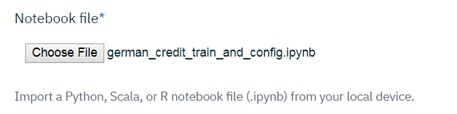
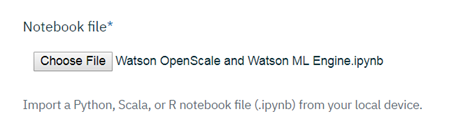
Updates to match staging

Changed region(s): [[0.0308, 0.7105, 0.9251, 0.9211], [0.0308, 0.3684, 0.8634, 0.5526], [0.0308, 0.1053, 0.2467, 0.2368]]

diff --git a/tutorial-adv.md b/tutorial-adv.md
@@ -2,7 +2,7 @@
 
 copyright:
   years: 2018, 2019
-lastupdated: "2019-02-07"
+lastupdated: "2019-02-18"
 
 ---
 
@@ -117,12 +117,12 @@ Login to your [{{site.data.keyword.Bluemix_notm}} account](https://console.bluem
 ## Create and deploy a machine learning model
 {: #crt-make-model}
 
-### Add the `German Credit Lab - OpenScale Lab instructions` notebook to your Watson Studio project
+### Add the `Watson OpenScale and Watson ML engine` notebook to your Watson Studio project
 {: #crt-add-notebook}
 
 - Download the following file:
 
-    - [German Credit Lab - OpenScale Lab instructions](https://github.com/emartensibm/german-credit/blob/master/german_credit_lab.ipynb)
+    - [Watson OpenScale and Watson ML engine](https://github.com/pmservice/ai-openscale-tutorials/blob/master/notebooks/Watson%20OpenScale%20and%20Watson%20ML%20Engine.ipynb)
 
 - From the **Assets** tab in your Watson Studio project, click the **Add to project** button and select **Notebook** from the dropdown:
 
@@ -132,7 +132,7 @@ Login to your [{{site.data.keyword.Bluemix_notm}} account](https://console.bluem
 
   ![New Notebook Form](images/new_notebook_name.png)
 
-- Then click the **Choose file** button, and select the "German Credit Risk - model" that you downloaded:
+- Then click the **Choose file** button, and select the "Watson OpenScale and Watson ML engine.ipynb" notebook file that you downloaded:
 
   ![New Notebook Form](images/new_notebook_name2a.png)
 
@@ -140,19 +140,19 @@ Login to your [{{site.data.keyword.Bluemix_notm}} account](https://console.bluem
 
 - Click **Create Notebook**.
 
-### Edit and run the `German Credit Risk - model` Notebook
+### Edit and run the `Watson OpenScale and Watson ML engine` notebook
 {: #crt-edit-notebook}
 
-The `German Credit Risk - model` notebook contains detailed instructions for each step in the Python code you will run. As you work through the notebook, take some time to understand what each command is doing.
+The `Watson OpenScale and Watson ML engine` notebook contains detailed instructions for each step in the Python code you will run. As you work through the notebook, take some time to understand what each command is doing.
 {: tip}
 
-- From the **Assets** tab in your Watson Studio project, click the **Edit** icon next to the `German Credit Risk - model` notebook to edit it.
+- From the **Assets** tab in your Watson Studio project, click the **Edit** icon next to the `Watson OpenScale and Watson ML engine` notebook to edit it.
 
 - In the "Provision services and configure credentials" section, make the following changes:
 
     - Follow the instructions to create, copy, and paste an {{site.data.keyword.Bluemix_notm}} API key.
 
-    - Replace the Watson Machine Learning (WML), Db2, and Spark service credentials with the ones you created previously.
+    - Replace the Watson Machine Learning (WML) and Db2 service credentials with the ones you created previously.
 
     - If you have an already-existing schema in your Db2 instance that you would like to use for {{site.data.keyword.aios_short}} data, specify it as the SCHEMA_NAME variable. Otherwise, leave the variable set to `None` to use the default Db2 schema.
 
@@ -167,7 +167,7 @@ The `German Credit Risk - model` notebook contains detailed instructions for eac
 
 - Now, run each step of the notebook in sequence. Notice what is happening at each step, as described. Complete all the steps, up through and including the steps in the "Additional data to help debugging" section.
 
-The net result is that you will have created, trained, and deployed the **German Credit Risk Model** to your {{site.data.keyword.aios_short}} service instance. {{site.data.keyword.aios_short}} will be configured to check the model for bias against sex (in this case, Female) or age (In this case, 18-25 years old).
+The net result is that you will have created, trained, and deployed the **German Credit Risk Model** to your {{site.data.keyword.aios_short}} service instance. {{site.data.keyword.aios_short}} will be configured to check the model for bias against sex (in this case, Female) or age (in this case, 18-25 years old).
 
 ## Viewing results
 {: #crt-view-results}

diff --git a/monitor-accuracy.md b/monitor-accuracy.md
@@ -2,7 +2,7 @@
 
 copyright:
   years: 2018, 2019
-lastupdated: "2019-02-07"
+lastupdated: "2019-02-19"
 
 ---
 
@@ -82,6 +82,9 @@ You are now presented with the option to directly provide feedback data to your 
   ![Send feedback data](images/accuracy-send-feedback0.png)
 
 Select the *Add Feedback Data* button to upload a CSV-formatted data file; set the delimiter to match your data.
+
+The feedback CSV file is expected to have all feature values, and the manually assigned target/label value. For example, the drug model training data contains feature values `"AGE"`, `"SEX"`, `"BP"`, `"CHOLESTEROL"`,`"NA"`,`"K"`, and the target/label value `"DRUG"`. The feedback CSV file needs to include values for those fields; an example would look like `[43, M, HIGH, NORMAL, 0.6345, 1.4587, DrugX]`. If a header is provided for the feedback CSV file, then field names are mapped using the header. Otherwise the field order **MUST** be exactly the same as in the training schema.
+{: important}
 
   ![Accuracy delimiter](images/accuracy-delimit.png)
 

diff --git a/addl-rsc.md b/addl-rsc.md
@@ -2,7 +2,7 @@
 
 copyright:
   years: 2018, 2019
-lastupdated: "2019-02-07"
+lastupdated: "2019-02-19"
 
 ---
 
@@ -27,4 +27,5 @@ lastupdated: "2019-02-07"
 The [advanced tutorial](/docs/services/ai-openscale/tutorial-adv.html), which provides a Jupyter notebook to walk you through the process of creating, deploying, and viewing results of a detailed credit risk model scenario in {{site.data.keyword.aios_short}}, is also available as a tutorial for other machine learning service instances:
 
 - [Microsoft Azure ML Studio](https://github.com/pmservice/ai-openscale-tutorials/blob/master/notebooks/AI%20OpenScale%20and%20Azure%20ML%20Studio%20Engine.ipynb)
+- [Amazon SageMaker ML Studio](https://github.com/pmservice/ai-openscale-tutorials/blob/master/notebooks/AI%20OpenScale%20and%20SageMaker%20ML%20Engine.ipynb)
 - [Custom service instance](https://github.com/pmservice/ai-openscale-tutorials/blob/master/notebooks/AI%20OpenScale%20and%20Custom%20ML%20Engine.ipynb)
